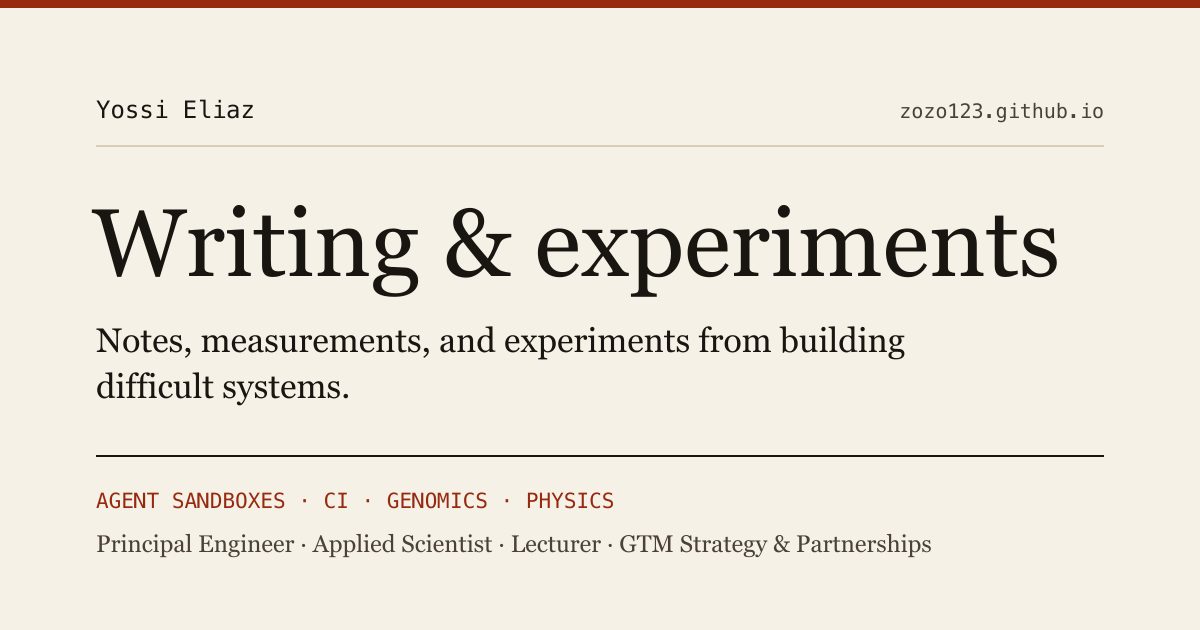
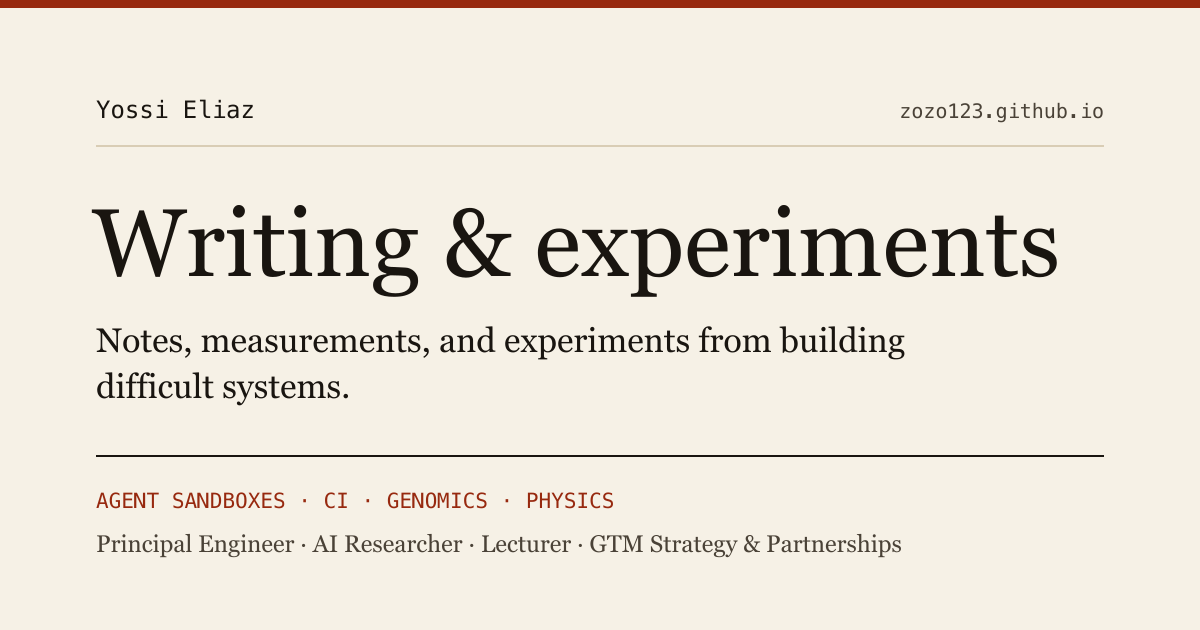
Use AI Researcher in the title
Replace "Applied Scientist" with "AI Researcher": Principal Engineer · AI Researcher · Lecturer · GTM Strategy & Partnerships.

Changed region(s): [[0.2775, 0.8444, 0.7708, 0.9048]]

diff --git a/index.html b/index.html
@@ -6,7 +6,7 @@
 <meta name="theme-color" content="#f6f1e6">
 <meta name="color-scheme" content="light">
 <title>Yossi Eliaz — Collected works: writing &amp; experiments</title>
-<meta name="description" content="Writing, field guides, and live experiments by Yossi Eliaz on AI agent sandboxes, CI, genomics, and physics. Principal Engineer, Applied Scientist, Lecturer, GTM Strategy &amp; Partnerships.">
+<meta name="description" content="Writing, field guides, and live experiments by Yossi Eliaz on AI agent sandboxes, CI, genomics, and physics. Principal Engineer, AI Researcher, Lecturer, GTM Strategy &amp; Partnerships.">
 <meta name="author" content="Yossi Eliaz">
 <link rel="canonical" href="https://zozo123.github.io/">
 <meta property="og:type" content="website">
@@ -26,7 +26,7 @@
 <link rel="preconnect" href="https://fonts.gstatic.com" crossorigin>
 <link href="https://fonts.googleapis.com/css2?family=Fraunces:ital,opsz,wght@0,9..144,300..900;1,9..144,300..900&amp;family=Spectral:ital,wght@0,300;0,400;0,500;1,300;1,400&amp;family=IBM+Plex+Mono:wght@400;500;600&amp;display=swap" rel="stylesheet">
 <link rel="stylesheet" href="css/style.css">
-<script type="application/ld+json">{"@context":"https://schema.org","@graph":[{"@type":"Person","@id":"https://yossieliaz.netlify.app/#person","name":"Yossi Eliaz","jobTitle":"Principal Engineer · Applied Scientist · Lecturer · GTM Strategy & Partnerships","url":"https://yossieliaz.netlify.app/","image":"https://avatars.githubusercontent.com/u/553010?v=4","sameAs":["https://github.com/zozo123","https://www.linkedin.com/in/yossi-eliaz/","https://scholar.google.com/citations?user=NL1ZyOgAAAAJ","https://x.com/YossiEliaz","https://yossieliaz.netlify.app/","https://zozo123.github.io/"],"alumniOf":{"@type":"CollegeOrUniversity","name":"University of Houston"},"knowsAbout":["AI agent sandboxes","CI and build acceleration","Computational genomics","Machine learning","Computer vision","Physics"]},{"@type":"WebSite","@id":"https://zozo123.github.io/#site","url":"https://zozo123.github.io/","name":"Yossi Eliaz: Writing & experiments","author":{"@id":"https://yossieliaz.netlify.app/#person"}},{"@type":"CollectionPage","url":"https://zozo123.github.io/","name":"Yossi Eliaz: Collected works","isPartOf":{"@id":"https://zozo123.github.io/#site"},"author":{"@id":"https://yossieliaz.netlify.app/#person"},"hasPart":[{"@type":"CreativeWork","name":"ForgeFS","url":"https://github.com/zozo123/forgefs","description":"Isolated, auditable workspaces for concurrent coding agents. When two agents publish over each other, the second one's work survives as a fork.","author":{"@id":"https://yossieliaz.netlify.app/#person"}},{"@type":"CreativeWork","name":"SWFactory","url":"https://zozo123.github.io/ariflow-swfactory/","description":"GitHub issues to reviewed pull requests with coding agents, Airflow, and human approval gates. The local replay needs no keys.","author":{"@id":"https://yossieliaz.netlify.app/#person"}},{"@type":"CreativeWork","name":"What T2T changed","url":"https://zozo123.github.io/t2t-vs-grch38/","description":"GRCh38 against the telomere-to-telomere T2T-CHM13 reference, chromosome by chromosome: +179.6 Mb of usable sequence and where CpG-rule windows fall. Composition only; caveats published.","author":{"@id":"https://yossieliaz.netlify.app/#person"}},{"@type":"CreativeWork","name":"The Sandbox Shift","url":"https://zozo123.github.io/sandboxes-why-how-when/","description":"When isolated execution helps agent systems, and how to choose an approach, with an interactive decider.","author":{"@id":"https://yossieliaz.netlify.app/#person"}},{"@type":"CreativeWork","name":"CI Caching Is Not One Cache","url":"https://zozo123.github.io/gha-cache-field-guide/","description":"A practical field guide to GitHub Actions cache strategy.","author":{"@id":"https://yossieliaz.netlify.app/#person"}},{"@type":"CreativeWork","name":"Wasted Cycles","url":"https://zozo123.github.io/wasted-cycles/","description":"Find the machine time blocking agent work: local traces and GitHub Actions latency, with a one-line installer.","author":{"@id":"https://yossieliaz.netlify.app/#person"}},{"@type":"CreativeWork","name":"Hermetic Agents","url":"https://zozo123.github.io/hermetic-agents-demo/","description":"Code and tests from one spec with no shared scratchpad: separate coder and tester contexts, and QA that assigns blame when they disagree.","author":{"@id":"https://yossieliaz.netlify.app/#person"}},{"@type":"CreativeWork","name":"Bazel 9 × monty","url":"https://zozo123.github.io/bazel-monty/","description":"Building pydantic/monty with Bazel 9, remote cache, and remote execution: 121 s cold, 15.7 s fully cached.","author":{"@id":"https://yossieliaz.netlify.app/#person"}},{"@type":"CreativeWork","name":"AI Sandbox Landscape","url":"https://zozo123.github.io/sandbox-landscape/","description":"A map of the execution-sandbox ecosystem.","author":{"@id":"https://yossieliaz.netlify.app/#person"}},{"@type":"CreativeWork","name":"One Lab Per Kernel","url":"https://zozo123.github.io/sol-exec-bench/","description":"A technical design for running a GPU-kernel research loop (SOL-ExecBench) reproducibly on Islo sandboxes.","author":{"@id":"https://yossieliaz.netlify.app/#person"}},{"@type":"CreativeWork","name":"Rust It Up","url":"https://zozo123.github.io/rust-it-up/","description":"Should this repo be rewritten in Rust? An evidence-based migration score.","author":{"@id":"https://yossieliaz.netlify.app/#person"}},{"@type":"CreativeWork","name":"Inferoa","url":"https://zozo123.github.io/inferoa-demo/","description":"Inference-native agent mechanics: prefix caching, context compression, and routing.","author":{"@id":"https://yossieliaz.netlify.app/#person"}},{"@type":"CreativeWork","name":"Agentic Airbyte","url":"https://zozo123.github.io/agentic-airbyte/","description":"An agent plans, a Crabbox sandbox runs, Airbyte moves the data.","author":{"@id":"https://yossieliaz.netlify.app/#person"}},{"@type":"CreativeWork","name":"Evals or You're Blind","url":"https://zozo123.github.io/demo-evals-pydantic-islo-crabbox/","description":"Pydantic AI and Pydantic Evals on disposable sandboxes.","author":{"@id":"https://yossieliaz.netlify.app/#person"}},{"@type":"CreativeWork","name":"Repo2RLEnv × Crabbox","url":"https://zozo123.github.io/repo2rlenv-crabbox-demo/","description":"Score Harbor pr_diff tasks on a remote sandbox in about 50 seconds.","author":{"@id":"https://yossieliaz.netlify.app/#person"}},{"@type":"CreativeWork","name":"Odysseus × Crabbox","url":"https://zozo123.github.io/odysseus-crabbox-demo/","description":"A self-hosted AI workspace on a throwaway microVM, in one command.","author":{"@id":"https://yossieliaz.netlify.app/#person"}},{"@type":"CreativeWork","name":"Tiny Long-Memory Benchmark","url":"https://zozo123.github.io/longmem-mini-on-islo/","description":"A LongMemEval-style memory benchmark fanned out across sandboxes.","author":{"@id":"https://yossieliaz.netlify.app/#person"}},{"@type":"CreativeWork","name":"Meta-harness on Islo","url":"https://zozo123.github.io/meta-harness-on-islo-page/","description":"A deterministic simulation of harness optimization: scripted agent, pattern-matching proposer, five toy tasks.","author":{"@id":"https://yossieliaz.netlify.app/#person"}},{"@type":"CreativeWork","name":"env-rosetta","url":"https://zozo123.github.io/env-rosetta-page/","description":"The same Wordle environment across four RL frameworks and four sandboxes.","author":{"@id":"https://yossieliaz.netlify.app/#person"}},{"@type":"CreativeWork","name":"Crabbox Runner for RustRover","url":"https://zozo123.github.io/rust-rover-plugin-crabbox/","description":"Run Rust commands in OpenClaw Crabbox sandboxes from the IDE.","author":{"@id":"https://yossieliaz.netlify.app/#person"}},{"@type":"CreativeWork","name":"Gemma System One","url":"https://zozo123.github.io/gemma-to-jev/","description":"Gemma 3 4B as a one-forward-pass decision function in native Rust, with shared-state inference across many questions.","author":{"@id":"https://yossieliaz.netlify.app/#person"}},{"@type":"CreativeWork","name":"Pokeloop","url":"https://zozo123.github.io/pokeloop/","description":"A genetic algorithm over LLM policies learning Pokémon GO.","author":{"@id":"https://yossieliaz.netlify.app/#person"}},{"@type":"CreativeWork","name":"unity-loop","url":"https://zozo123.github.io/unity-loop-page/","description":"Unity scenes built by agents on remote sandboxes, judged by a vision-model tournament.","author":{"@id":"https://yossieliaz.netlify.app/#person"}},{"@type":"CreativeWork","name":"wolfram-fb0","url":"https://zozo123.github.io/wolfram-fb0/","description":"AI-written x86-64 assembly and eBPF drawing cellular automata straight to /dev/fb0.","author":{"@id":"https://yossieliaz.netlify.app/#person"}},{"@type":"CreativeWork","name":"Bring Your Own Genome","url":"https://zozo123.github.io/genomics-sandboxes/","description":"Reference broadcast by VM snapshot: warm one sandbox with the reference and indices, then fork it copy-on-write per chromosome for genomic scatter-gather.","author":{"@id":"https://yossieliaz.netlify.app/#person"}},{"@type":"CreativeWork","name":"Open Physics Problems","url":"https://zozo123.github.io/open-physics-problems/","description":"112 open physics problems mapped like open mathematics: publication cultures, refutability, and ten-day agentic sprints.","author":{"@id":"https://yossieliaz.netlify.app/#person"}},{"@type":"CreativeWork","name":"Evidence-Aware MapReduce","url":"https://zozo123.github.io/boltzmann-mapreduce/","description":"Fork workers freely while keeping evidence, uncertainty, and shared origins visible, so a repeated error is not counted as consensus. Preprint, 2026.","author":{"@id":"https://yossieliaz.netlify.app/#person"}},{"@type":"CreativeWork","name":"The Stochastic CPU","url":"https://zozo123.github.io/stochastic-cpu/","description":"A field report on the cloud being rebuilt for agents: the agent hour, two-layer caches, snapshot provenance.","author":{"@id":"https://yossieliaz.netlify.app/#person"}},{"@type":"CreativeWork","name":"From Microservices to Microcells","url":"https://zozo123.github.io/microservices-to-microcells/","description":"A plain explanation of microcells: tasks that run when needed, save progress, and survive a crash, plus a safe migration path.","author":{"@id":"https://yossieliaz.netlify.app/#person"}},{"@type":"CreativeWork","name":"Free* Intelligence","url":"https://zozo123.github.io/free-intelligence/","description":"A field report on the difference between a fluent model answer and an accountable agent harness.","author":{"@id":"https://yossieliaz.netlify.app/#person"}},{"@type":"CreativeWork","name":"The Living Layer","url":"https://zozo123.github.io/the-living-layer/","description":"A speculative architecture thesis: sandboxed execution plus governed, queryable state.","author":{"@id":"https://yossieliaz.netlify.app/#person"}},{"@type":"CreativeWork","name":"The Data That Taught the Machines","url":"https://zozo123.github.io/how-stackoverflow-taught-ai/","description":"How Stack Overflow trained its own replacement.","author":{"@id":"https://yossieliaz.netlify.app/#person"}},{"@type":"CreativeWork","name":"The Loop Is Coming Apart","url":"https://zozo123.github.io/loop-coming-apart/","description":"jj, Crabbox, and the unbundled development cycle: the diff is the unit of work.","author":{"@id":"https://yossieliaz.netlify.app/#person"}},{"@type":"CreativeWork","name":"Intel: Vision Without Execution","url":"https://zozo123.github.io/intel-story/","description":"A comic-style look at Intel's 2000–2026 journey.","author":{"@id":"https://yossieliaz.netlify.app/#person"}},{"@type":"CreativeWork","name":"A Sandbox Provider for Apache Airflow","url":"https://zozo123.github.io/airflow-sandbox-townhall/","description":"One ephemeral microVM per Airflow task try, for fast fan-out and controlled untrusted execution. Airflow Town Hall, July 2026.","author":{"@id":"https://yossieliaz.netlify.app/#person"}},{"@type":"CreativeWork","name":"A Million Builds, a One-Hour Robot","url":"https://zozo123.github.io/rust-china-conf/","description":"Rust China Conf: a simulated robot, a stale-observation bug, the Rust fix, and the Incredibuild rebuild loop, with recorded evidence.","author":{"@id":"https://yossieliaz.netlify.app/#person"}},{"@type":"CreativeWork","name":"How Market Makers Print Money","url":"https://zozo123.github.io/market-making-sandbox/","description":"Order books to Avellaneda–Stoikov, Glosten–Milgrom, and Kyle's lambda, interactively.","author":{"@id":"https://yossieliaz.netlify.app/#person"}},{"@type":"CreativeWork","name":"Avellaneda–Stoikov, in a Sandbox","url":"https://zozo123.github.io/microprice-sandbox/","description":"Reproducing the HFT paper in about 90 seconds, with no local Python.","author":{"@id":"https://yossieliaz.netlify.app/#person"}}]}]}</script>
+<script type="application/ld+json">{"@context":"https://schema.org","@graph":[{"@type":"Person","@id":"https://yossieliaz.netlify.app/#person","name":"Yossi Eliaz","jobTitle":"Principal Engineer · AI Researcher · Lecturer · GTM Strategy & Partnerships","url":"https://yossieliaz.netlify.app/","image":"https://avatars.githubusercontent.com/u/553010?v=4","sameAs":["https://github.com/zozo123","https://www.linkedin.com/in/yossi-eliaz/","https://scholar.google.com/citations?user=NL1ZyOgAAAAJ","https://x.com/YossiEliaz","https://yossieliaz.netlify.app/","https://zozo123.github.io/"],"alumniOf":{"@type":"CollegeOrUniversity","name":"University of Houston"},"knowsAbout":["AI agent sandboxes","CI and build acceleration","Computational genomics","Machine learning","Computer vision","Physics"]},{"@type":"WebSite","@id":"https://zozo123.github.io/#site","url":"https://zozo123.github.io/","name":"Yossi Eliaz: Writing & experiments","author":{"@id":"https://yossieliaz.netlify.app/#person"}},{"@type":"CollectionPage","url":"https://zozo123.github.io/","name":"Yossi Eliaz: Collected works","isPartOf":{"@id":"https://zozo123.github.io/#site"},"author":{"@id":"https://yossieliaz.netlify.app/#person"},"hasPart":[{"@type":"CreativeWork","name":"ForgeFS","url":"https://github.com/zozo123/forgefs","description":"Isolated, auditable workspaces for concurrent coding agents. When two agents publish over each other, the second one's work survives as a fork.","author":{"@id":"https://yossieliaz.netlify.app/#person"}},{"@type":"CreativeWork","name":"SWFactory","url":"https://zozo123.github.io/ariflow-swfactory/","description":"GitHub issues to reviewed pull requests with coding agents, Airflow, and human approval gates. The local replay needs no keys.","author":{"@id":"https://yossieliaz.netlify.app/#person"}},{"@type":"CreativeWork","name":"What T2T changed","url":"https://zozo123.github.io/t2t-vs-grch38/","description":"GRCh38 against the telomere-to-telomere T2T-CHM13 reference, chromosome by chromosome: +179.6 Mb of usable sequence and where CpG-rule windows fall. Composition only; caveats published.","author":{"@id":"https://yossieliaz.netlify.app/#person"}},{"@type":"CreativeWork","name":"The Sandbox Shift","url":"https://zozo123.github.io/sandboxes-why-how-when/","description":"When isolated execution helps agent systems, and how to choose an approach, with an interactive decider.","author":{"@id":"https://yossieliaz.netlify.app/#person"}},{"@type":"CreativeWork","name":"CI Caching Is Not One Cache","url":"https://zozo123.github.io/gha-cache-field-guide/","description":"A practical field guide to GitHub Actions cache strategy.","author":{"@id":"https://yossieliaz.netlify.app/#person"}},{"@type":"CreativeWork","name":"Wasted Cycles","url":"https://zozo123.github.io/wasted-cycles/","description":"Find the machine time blocking agent work: local traces and GitHub Actions latency, with a one-line installer.","author":{"@id":"https://yossieliaz.netlify.app/#person"}},{"@type":"CreativeWork","name":"Hermetic Agents","url":"https://zozo123.github.io/hermetic-agents-demo/","description":"Code and tests from one spec with no shared scratchpad: separate coder and tester contexts, and QA that assigns blame when they disagree.","author":{"@id":"https://yossieliaz.netlify.app/#person"}},{"@type":"CreativeWork","name":"Bazel 9 × monty","url":"https://zozo123.github.io/bazel-monty/","description":"Building pydantic/monty with Bazel 9, remote cache, and remote execution: 121 s cold, 15.7 s fully cached.","author":{"@id":"https://yossieliaz.netlify.app/#person"}},{"@type":"CreativeWork","name":"AI Sandbox Landscape","url":"https://zozo123.github.io/sandbox-landscape/","description":"A map of the execution-sandbox ecosystem.","author":{"@id":"https://yossieliaz.netlify.app/#person"}},{"@type":"CreativeWork","name":"One Lab Per Kernel","url":"https://zozo123.github.io/sol-exec-bench/","description":"A technical design for running a GPU-kernel research loop (SOL-ExecBench) reproducibly on Islo sandboxes.","author":{"@id":"https://yossieliaz.netlify.app/#person"}},{"@type":"CreativeWork","name":"Rust It Up","url":"https://zozo123.github.io/rust-it-up/","description":"Should this repo be rewritten in Rust? An evidence-based migration score.","author":{"@id":"https://yossieliaz.netlify.app/#person"}},{"@type":"CreativeWork","name":"Inferoa","url":"https://zozo123.github.io/inferoa-demo/","description":"Inference-native agent mechanics: prefix caching, context compression, and routing.","author":{"@id":"https://yossieliaz.netlify.app/#person"}},{"@type":"CreativeWork","name":"Agentic Airbyte","url":"https://zozo123.github.io/agentic-airbyte/","description":"An agent plans, a Crabbox sandbox runs, Airbyte moves the data.","author":{"@id":"https://yossieliaz.netlify.app/#person"}},{"@type":"CreativeWork","name":"Evals or You're Blind","url":"https://zozo123.github.io/demo-evals-pydantic-islo-crabbox/","description":"Pydantic AI and Pydantic Evals on disposable sandboxes.","author":{"@id":"https://yossieliaz.netlify.app/#person"}},{"@type":"CreativeWork","name":"Repo2RLEnv × Crabbox","url":"https://zozo123.github.io/repo2rlenv-crabbox-demo/","description":"Score Harbor pr_diff tasks on a remote sandbox in about 50 seconds.","author":{"@id":"https://yossieliaz.netlify.app/#person"}},{"@type":"CreativeWork","name":"Odysseus × Crabbox","url":"https://zozo123.github.io/odysseus-crabbox-demo/","description":"A self-hosted AI workspace on a throwaway microVM, in one command.","author":{"@id":"https://yossieliaz.netlify.app/#person"}},{"@type":"CreativeWork","name":"Tiny Long-Memory Benchmark","url":"https://zozo123.github.io/longmem-mini-on-islo/","description":"A LongMemEval-style memory benchmark fanned out across sandboxes.","author":{"@id":"https://yossieliaz.netlify.app/#person"}},{"@type":"CreativeWork","name":"Meta-harness on Islo","url":"https://zozo123.github.io/meta-harness-on-islo-page/","description":"A deterministic simulation of harness optimization: scripted agent, pattern-matching proposer, five toy tasks.","author":{"@id":"https://yossieliaz.netlify.app/#person"}},{"@type":"CreativeWork","name":"env-rosetta","url":"https://zozo123.github.io/env-rosetta-page/","description":"The same Wordle environment across four RL frameworks and four sandboxes.","author":{"@id":"https://yossieliaz.netlify.app/#person"}},{"@type":"CreativeWork","name":"Crabbox Runner for RustRover","url":"https://zozo123.github.io/rust-rover-plugin-crabbox/","description":"Run Rust commands in OpenClaw Crabbox sandboxes from the IDE.","author":{"@id":"https://yossieliaz.netlify.app/#person"}},{"@type":"CreativeWork","name":"Gemma System One","url":"https://zozo123.github.io/gemma-to-jev/","description":"Gemma 3 4B as a one-forward-pass decision function in native Rust, with shared-state inference across many questions.","author":{"@id":"https://yossieliaz.netlify.app/#person"}},{"@type":"CreativeWork","name":"Pokeloop","url":"https://zozo123.github.io/pokeloop/","description":"A genetic algorithm over LLM policies learning Pokémon GO.","author":{"@id":"https://yossieliaz.netlify.app/#person"}},{"@type":"CreativeWork","name":"unity-loop","url":"https://zozo123.github.io/unity-loop-page/","description":"Unity scenes built by agents on remote sandboxes, judged by a vision-model tournament.","author":{"@id":"https://yossieliaz.netlify.app/#person"}},{"@type":"CreativeWork","name":"wolfram-fb0","url":"https://zozo123.github.io/wolfram-fb0/","description":"AI-written x86-64 assembly and eBPF drawing cellular automata straight to /dev/fb0.","author":{"@id":"https://yossieliaz.netlify.app/#person"}},{"@type":"CreativeWork","name":"Bring Your Own Genome","url":"https://zozo123.github.io/genomics-sandboxes/","description":"Reference broadcast by VM snapshot: warm one sandbox with the reference and indices, then fork it copy-on-write per chromosome for genomic scatter-gather.","author":{"@id":"https://yossieliaz.netlify.app/#person"}},{"@type":"CreativeWork","name":"Open Physics Problems","url":"https://zozo123.github.io/open-physics-problems/","description":"112 open physics problems mapped like open mathematics: publication cultures, refutability, and ten-day agentic sprints.","author":{"@id":"https://yossieliaz.netlify.app/#person"}},{"@type":"CreativeWork","name":"Evidence-Aware MapReduce","url":"https://zozo123.github.io/boltzmann-mapreduce/","description":"Fork workers freely while keeping evidence, uncertainty, and shared origins visible, so a repeated error is not counted as consensus. Preprint, 2026.","author":{"@id":"https://yossieliaz.netlify.app/#person"}},{"@type":"CreativeWork","name":"The Stochastic CPU","url":"https://zozo123.github.io/stochastic-cpu/","description":"A field report on the cloud being rebuilt for agents: the agent hour, two-layer caches, snapshot provenance.","author":{"@id":"https://yossieliaz.netlify.app/#person"}},{"@type":"CreativeWork","name":"From Microservices to Microcells","url":"https://zozo123.github.io/microservices-to-microcells/","description":"A plain explanation of microcells: tasks that run when needed, save progress, and survive a crash, plus a safe migration path.","author":{"@id":"https://yossieliaz.netlify.app/#person"}},{"@type":"CreativeWork","name":"Free* Intelligence","url":"https://zozo123.github.io/free-intelligence/","description":"A field report on the difference between a fluent model answer and an accountable agent harness.","author":{"@id":"https://yossieliaz.netlify.app/#person"}},{"@type":"CreativeWork","name":"The Living Layer","url":"https://zozo123.github.io/the-living-layer/","description":"A speculative architecture thesis: sandboxed execution plus governed, queryable state.","author":{"@id":"https://yossieliaz.netlify.app/#person"}},{"@type":"CreativeWork","name":"The Data That Taught the Machines","url":"https://zozo123.github.io/how-stackoverflow-taught-ai/","description":"How Stack Overflow trained its own replacement.","author":{"@id":"https://yossieliaz.netlify.app/#person"}},{"@type":"CreativeWork","name":"The Loop Is Coming Apart","url":"https://zozo123.github.io/loop-coming-apart/","description":"jj, Crabbox, and the unbundled development cycle: the diff is the unit of work.","author":{"@id":"https://yossieliaz.netlify.app/#person"}},{"@type":"CreativeWork","name":"Intel: Vision Without Execution","url":"https://zozo123.github.io/intel-story/","description":"A comic-style look at Intel's 2000–2026 journey.","author":{"@id":"https://yossieliaz.netlify.app/#person"}},{"@type":"CreativeWork","name":"A Sandbox Provider for Apache Airflow","url":"https://zozo123.github.io/airflow-sandbox-townhall/","description":"One ephemeral microVM per Airflow task try, for fast fan-out and controlled untrusted execution. Airflow Town Hall, July 2026.","author":{"@id":"https://yossieliaz.netlify.app/#person"}},{"@type":"CreativeWork","name":"A Million Builds, a One-Hour Robot","url":"https://zozo123.github.io/rust-china-conf/","description":"Rust China Conf: a simulated robot, a stale-observation bug, the Rust fix, and the Incredibuild rebuild loop, with recorded evidence.","author":{"@id":"https://yossieliaz.netlify.app/#person"}},{"@type":"CreativeWork","name":"How Market Makers Print Money","url":"https://zozo123.github.io/market-making-sandbox/","description":"Order books to Avellaneda–Stoikov, Glosten–Milgrom, and Kyle's lambda, interactively.","author":{"@id":"https://yossieliaz.netlify.app/#person"}},{"@type":"CreativeWork","name":"Avellaneda–Stoikov, in a Sandbox","url":"https://zozo123.github.io/microprice-sandbox/","description":"Reproducing the HFT paper in about 90 seconds, with no local Python.","author":{"@id":"https://yossieliaz.netlify.app/#person"}}]}]}</script>
 </head>
 <body class="no-js">
 
@@ -75,7 +75,7 @@
     <div class="hero-left reveal in-load d3">
       <p class="hero-abstract">
         <span class="mono abstract-label">Abstract</span>
-        <strong>Principal Engineer · Applied Scientist · Lecturer · GTM Strategy &amp; Partnerships.</strong> Build difficult systems. Make them useful.
+        <strong>Principal Engineer · AI Researcher · Lecturer · GTM Strategy &amp; Partnerships.</strong> Build difficult systems. Make them useful.
         I build AI execution infrastructure, production ML, and scientific software, on a path from
         GPS/navigation and Android/Linux kernels through computational physics, genomics, and
         autonomous-driving perception to secure agent sandboxes. <span class="thin">PhD in Physics; Senior Lecturer at HIT.</span>

diff --git a/tools/build_index.py b/tools/build_index.py
@@ -15,7 +15,7 @@ ROOT = Path(__file__).resolve().parents[1]
 SITE = "https://zozo123.github.io/"
 HOME = "https://yossieliaz.netlify.app/"
 NAME = "Yossi Eliaz"
-TITLE = "Principal Engineer · Applied Scientist · Lecturer · GTM Strategy & Partnerships"
+TITLE = "Principal Engineer · AI Researcher · Lecturer · GTM Strategy & Partnerships"
 SAME_AS = [
     "https://github.com/zozo123",
     "https://www.linkedin.com/in/yossi-eliaz/",
@@ -124,7 +124,7 @@ def render(data: dict) -> str:
     )
     selected = "".join(selected_card(i) for i in data["selected"])
     f = data["featured"]
-    description = "Writing, field guides, and live experiments by Yossi Eliaz on AI agent sandboxes, CI, genomics, and physics. Principal Engineer, Applied Scientist, Lecturer, GTM Strategy & Partnerships."
+    description = "Writing, field guides, and live experiments by Yossi Eliaz on AI agent sandboxes, CI, genomics, and physics. Principal Engineer, AI Researcher, Lecturer, GTM Strategy & Partnerships."
     return f"""<!DOCTYPE html>
 <html lang="en">
 <head>
